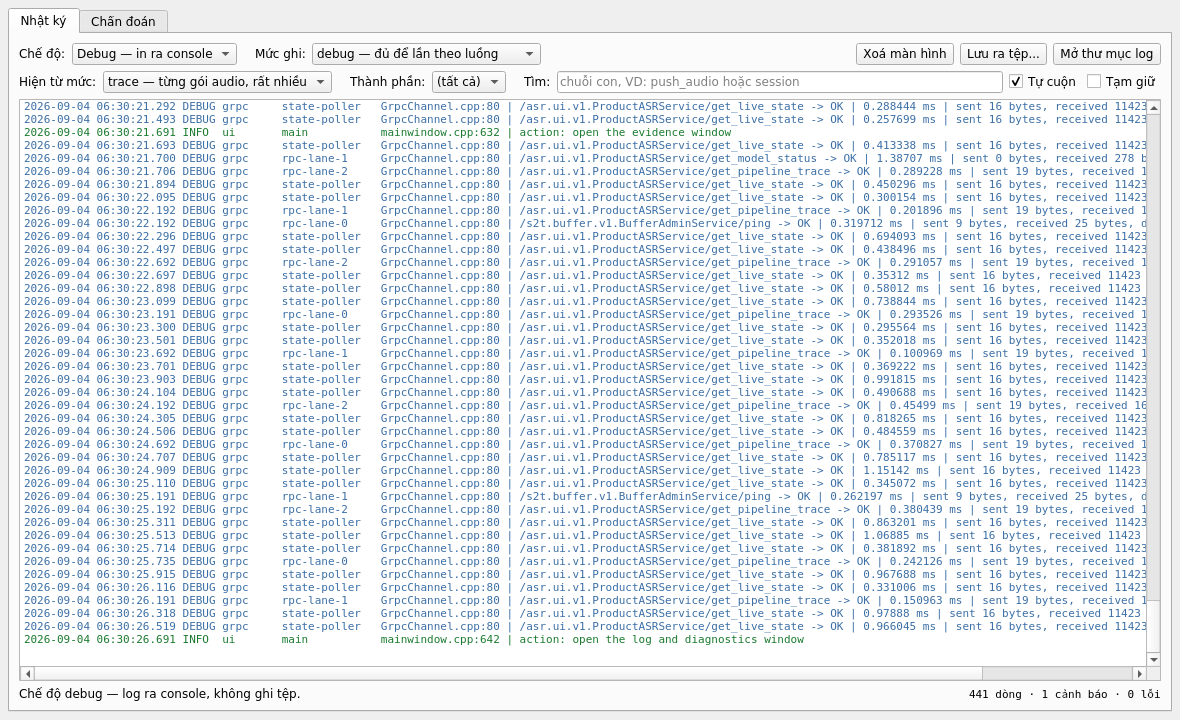
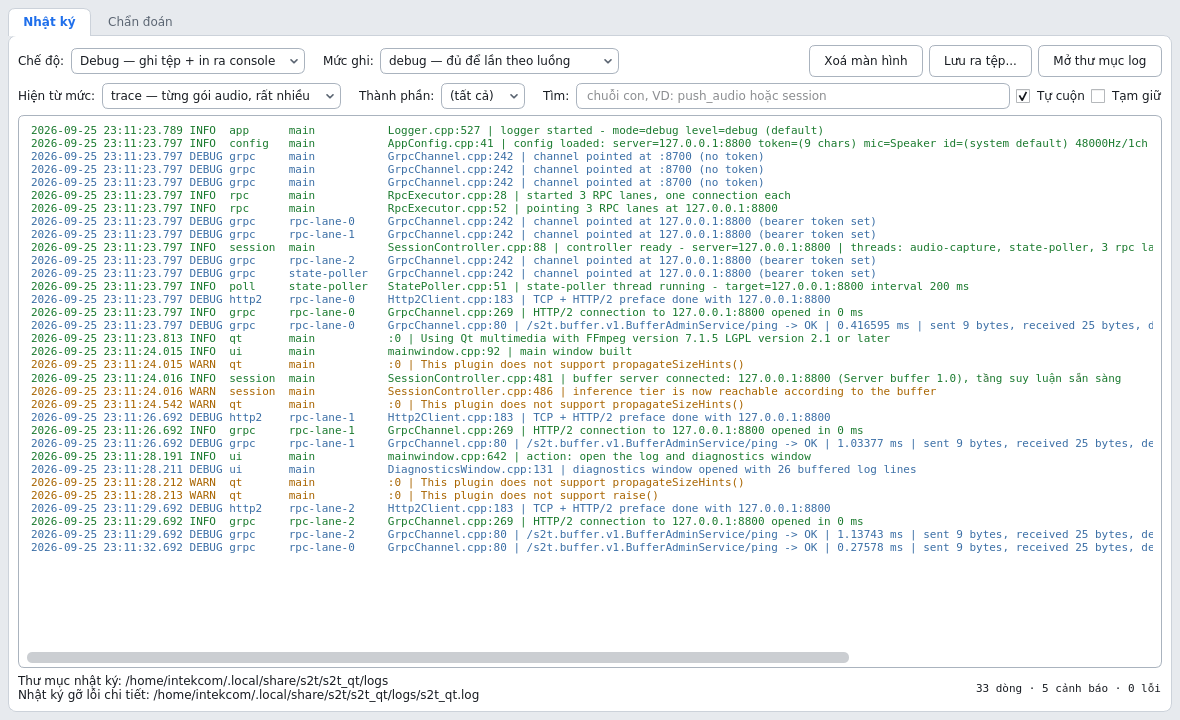
Hướng dẫn sử dụng theo đúng bản đang chạy, và nhãn log thôi nói "Debug = không có tệp"
Rà lại toàn bộ hướng dẫn sử dụng với bản đang chạy trên RHEL thì thấy bảy chỗ
đã sai hoặc thiếu. Chỗ nặng nhất là §6: tài liệu còn dặn "không nên đổi tên
tay để mồi", trong khi từ bản sửa D2 (2026-09-24) bằng chứng giọng CHỈ được
ghim cho giọng mà người soát đã đổi tên, và chỉ ở lúc dừng phiên - đọc code
xác nhận stageEvidence() chỉ được gọi từ đường dừng. Nên đổi tên sau khi đã
dừng thì không đẩy lên DB chung được; tài liệu giờ nói rõ trình tự và nói
câu "chưa có bằng chứng nào được ghim" nghĩa là gì.

Những chỗ khác:
- §0: `./run_s2t.sh` không tham số là `all` - dừng server nền đang chạy và tắt
  luôn server khi đóng giao diện. Việc này xảy ra thật lúc 23:05 hôm nay và
  nhật ký quy trình của server kể lại đúng như vậy. Cách dùng hằng ngày giờ
  là `restart` rồi `client`.
- §5: bản sửa tay được giữ, ghi kho ngay, phiên cũ vẫn sửa được, bắt buộc có
  người thao tác.
- §7 và danh-sach-api.md: trace giữ 2000 sự kiện cho mỗi stage
  (kTraceKeepPerStage), không còn 4000 dùng chung.
- §10: bị tắt từ bên ngoài lúc đang ghi thì không có hộp hỏi lại.
- Phụ lục A: bắt buộc export OUT, build một nửa, giao diện đang mở vẫn là bản
  cũ cho tới khi mở lại.

Chụp lại ba ảnh trên RHEL từ widget thật (offscreen, không bật gì lên màn hình
người dùng, md5 tệp cấu hình trước/sau như nhau): 10-cau-hinh.png với nút Tải
lại và dòng "Sẽ thu bằng", 13-cau-hinh-mic-sai.png là đúng cấu hình đang lưu
trên máy đó (còn "Speaker", báo đỏ), và 06-nhat-ky-chan-doan.png.
[…]

Changed region(s): [[0.0, 0.0, 1.0, 0.9778]]

diff --git a/s2t-qt-client/ui/Dialogs.cpp b/s2t-qt-client/ui/Dialogs.cpp
@@ -782,19 +782,19 @@ void SettingsDialog::updateDeviceHint()
 
 void SettingsDialog::updateLogHint()
 {
+    // The file is written in both modes; only the console copy differs.  The
+    // hint used to tell Debug users to switch to Develop "to get a file",
+    // which stopped being true when the file became always-on.
     const applog::Mode chosen = logcontrols::selectedMode(m_logMode);
-    if (chosen == applog::Mode::Develop) {
-        const QString path = applog::logFilePath();
-        m_logPath->setText(
-            path.isEmpty()
-                ? QStringLiteral("Log sẽ được ghi vào thư mục dữ liệu ứng dụng (tệp "
-                                 "s2t_qt.log, tự xoay vòng khi đầy 8 MB).")
-                : QStringLiteral("Tệp log: %1").arg(path));
-        return;
-    }
-    m_logPath->setText(QStringLiteral(
-        "Log in ra console. Chỉ thấy được nếu mở ứng dụng từ cửa sổ lệnh; "
-        "nếu mở bằng cách nhấp đúp thì hãy chọn chế độ Develop."));
+    const QString path = applog::logFilePath();
+    const QString file =
+        path.isEmpty() ? QStringLiteral("Log luôn được ghi vào thư mục dữ liệu ứng dụng (tệp "
+                                        "s2t_qt.log, tự xoay vòng khi đầy 8 MB).")
+                       : QStringLiteral("Tệp log (luôn được ghi): %1").arg(path);
+    m_logPath->setText(chosen == applog::Mode::Develop
+                           ? file
+                           : file + QStringLiteral("\nKèm một bản in ra console - chỉ thấy "
+                                                   "được khi mở ứng dụng từ cửa sổ lệnh."));
 }
 
 void SettingsDialog::browseTokenFile()

diff --git a/s2t-qt-client/ui/LogControls.cpp b/s2t-qt-client/ui/LogControls.cpp
@@ -7,10 +7,15 @@ namespace {
 
 // Only the two modes need a sentence of their own; the levels read well enough
 // from their name plus a short note.
+//
+// Since the log file became always-on, the mode only decides whether a console
+// copy is made as well.  The old labels ("Debug - in ra console") told the
+// operator that Debug meant "no file", which is exactly the belief that left
+// remote testers with nothing to send.
 QString modeLabel(applog::Mode mode)
 {
-    return mode == applog::Mode::Develop ? QStringLiteral("Develop — ghi ra tệp")
-                                         : QStringLiteral("Debug — in ra console");
+    return mode == applog::Mode::Develop ? QStringLiteral("Develop — chỉ ghi tệp")
+                                         : QStringLiteral("Debug — ghi tệp + in ra console");
 }
 
 QString levelLabel(applog::Level level)

diff --git a/s2t-qt-client/core/AppConfig.h b/s2t-qt-client/core/AppConfig.h
@@ -70,9 +70,10 @@ public:
     // defaults to matching it.
     bool paceFileReplay = true;
 
-    // Where the debug log goes: Debug -> console, Develop -> file.  Persisted
-    // so a deployed workstation keeps writing to its file across restarts
-    // without anyone having to remember a command-line switch.  --log-mode and
+    // Whether the debug log is also copied to the console: the file is always
+    // written, Debug adds a console copy, Develop does not.  Persisted so the
+    // choice survives a restart without anyone having to remember a
+    // command-line switch.  --log-mode and
     // S2T_LOG_MODE still outrank this at startup; see core/Logger.h.
     applog::Mode logMode = applog::Mode::Debug;
     applog::Level logLevel = applog::Level::Debug;

diff --git a/s2t-qt-client/ui/DiagnosticsWindow.cpp b/s2t-qt-client/ui/DiagnosticsWindow.cpp
@@ -190,8 +190,8 @@ QWidget *DiagnosticsWindow::buildLogTab()
     m_mode = new QComboBox(page);
     logcontrols::fillModes(m_mode, applog::mode());
     m_mode->setToolTip(QStringLiteral(
-        "Debug in ra console của cửa sổ lệnh đã mở ứng dụng; mở bằng nhấp đúp thì "
-        "không thấy gì. Develop ghi ra tệp, luôn đọc lại được."));
+        "Tệp log luôn được ghi ở cả hai chế độ. Debug in kèm một bản ra console "
+        "của cửa sổ lệnh đã mở ứng dụng; Develop thì chỉ ghi tệp."));
     sinkRow->addWidget(m_mode);
 
     sinkRow->addSpacing(12);

diff --git a/s2t-qt-server/SessionStore.h b/s2t-qt-server/SessionStore.h
@@ -90,7 +90,7 @@ public:
     //
     // Kept apart from the audit log on purpose: audit is what a person decided
     // and is never trimmed, this is what the tier decided and is trimmed to the
-    // most recent kTraceKeepPerSession events on every write.
+    // most recent kTraceKeepPerStage events of EACH stage on every write.
     void appendTrace(const QString &sessionId, const QList<asr::PipelineTraceEvent> &events);
     // `afterSeq` is a cursor, not a filter: a client polls with the nextSeq it
     // was handed last time.  An empty `stages` means every stage.

diff --git a/docs/huong-dan-su-dung.md b/docs/huong-dan-su-dung.md
@@ -40,7 +40,9 @@ Tài liệu này dành cho người vận hành.
 
 > **Ảnh trong tài liệu này là ảnh chụp máy thật**, lấy trên máy RHEL đang chạy
 > với Server buffer và tầng suy luận thật, ngày 2026-09-04 — không phải bản vẽ
-> mô phỏng. Chụp lại cả bộ bằng một lệnh: xem `tools/doc_shots.cpp`.
+> mô phỏng. Ba ảnh Cấu hình và Nhật ký (`06`, `10`, `13`) chụp lại ngày
+> 2026-09-25 theo giao diện mới. Chụp lại cả bộ bằng một lệnh: xem
+> `tools/doc_shots.cpp`.
 
 ---
 
@@ -51,18 +53,27 @@ sổ dòng lệnh và:
 
 ```bash
 cd ~/s2t-qt
-./run_s2t.sh            # Server buffer chạy nền + giao diện.
-                        # Đóng giao diện là dừng cả hai.
+./run_s2t.sh restart    # 1. Server buffer chạy nền, lâu dài (không mở giao diện)
+./run_s2t.sh client     # 2. Mở giao diện. Đóng giao diện KHÔNG dừng server.
 ```
 
-Các cách gọi khác, khi cần:
+Đây là cách nên dùng hằng ngày: server chạy một lần và nằm đó, giao diện mở
+và đóng bao nhiêu lần cũng được.
 
 | Lệnh | Làm gì |
 |---|---|
-| `./run_s2t.sh client` | Chỉ mở giao diện, khi Server buffer đã chạy sẵn |
-| `./run_s2t.sh restart` | Dừng server cũ, chạy server nền mới, **không** mở giao diện |
+| `./run_s2t.sh restart` | Dừng server cũ (nếu có), chạy server nền mới, **không** mở giao diện. Server chạy tiếp sau khi cửa sổ lệnh đóng. |
+| `./run_s2t.sh client` | Chỉ mở giao diện, dùng server đang chạy sẵn |
+| `./run_s2t.sh` (không tham số) = `./run_s2t.sh all` | Chạy **một cặp tạm**: server + giao diện. **Đóng giao diện là dừng luôn server.** |
 | `./run_s2t.sh stop` | Dừng server đang giữ cổng 8800 |
 | `./run_s2t.sh config` | Ghi lại cấu hình client cho khớp server ở máy này (có sao lưu) |
+
+> **Cẩn thận với `./run_s2t.sh` không tham số khi server đã chạy nền.** Nó
+> dừng server nền đó, chạy server của riêng nó, rồi **tắt server khi bạn đóng
+> giao diện** — sau đó cổng 8800 không còn ai nghe và mọi máy khác đang nối vào
+> đều mất kết nối. Chuyện này đã xảy ra thật ngày 2026-09-25: nhật ký quy trình
+> của server ghi `server.signal` đúng 12 giây sau `server.ready`, cùng giây với
+> lúc giao diện được đóng. Muốn mở giao diện thì dùng `./run_s2t.sh client`.
 
 Script lo hết phần môi trường: `PATH`, `LD_LIBRARY_PATH`, `QT_PLUGIN_PATH`
 trỏ vào `~/Qt`, ép mã hoá UTF-8, và mặc định `DISPLAY=:1`.
@@ -89,7 +100,7 @@ chạy — giao diện sẽ báo đèn đỏ và không mở được phiên nà
 Không có gì tự chạy. Làm đúng hai bước:
 
 ```bash
-cd ~/s2t-qt && ./run_s2t.sh
+cd ~/s2t-qt && ./run_s2t.sh restart && ./run_s2t.sh client
 ```
 
 rồi kiểm tra đèn kết nối trong giao diện ([mục 1.4](#14-kiểm-tra-kết-nối)).
@@ -103,6 +114,10 @@ rồi kiểm tra đèn kết nối trong giao diện ([mục 1.4](#14-kiểm-tra
 Mở **Công cụ → Cấu hình** (`Ctrl+,`) và điền:
 
 ![Hộp thoại Cấu hình](images/10-cau-hinh.png)
+
+*Đã chọn mic ở ô **Micro**: ô tên tự điền theo, và dòng xám bên dưới nói trước
+bấm Ghi âm sẽ thu bằng thiết bị nào. Dòng dưới cùng là đường dẫn tệp log — tệp
+luôn được ghi, dù chọn chế độ nào.*
 
 | Mục | Ý nghĩa |
 |---|---|
@@ -135,6 +150,11 @@ Cấu hình được lưu lại và tự nạp ở lần mở sau.
 > ```
 > Không tìm thấy microphone có tên chứa "Speaker".
 > ```
+>
+> Từ 2026-09-25 hộp thoại Cấu hình báo điều này **ngay khi mở**, bằng dòng chữ
+> đỏ dưới ô tên — không phải đợi tới lúc bấm ghi âm:
+>
+> ![Cấu hình còn giữ "Speaker": dòng báo đỏ](images/13-cau-hinh-mic-sai.png)
 >
 > Cách xử lý, theo thứ tự:
 >
@@ -414,6 +434,15 @@ bạn tải về, chỉnh sửa sẽ bị từ chối và bảng tự tải lạ
 Nếu nhận được *"chưa chốt tới đoạn này, thử lại sau vài giây"*: đoạn đó vẫn còn
 là kết quả tạm, chưa chốt. Đợi vài giây rồi sửa lại.
 
+- **Bản sửa lúc đang họp được giữ.** Một từ đã sửa tay thì lượt hiệu chỉnh tự
+  động đến sau không ghi đè lên nó nữa (trước 2026-09-24 thì có).
+- **Bản sửa được ghi xuống kho ngay**, nên nó còn nguyên sau khi server khởi
+  động lại hay sau khi phiên rời bộ nhớ.
+- **Phiên cũ đã đóng từ lâu vẫn sửa và đổi tên được.** Sau khi họp xong, sửa
+  được toàn bộ bản chép, không còn giới hạn mốc chốt.
+- Mọi lần sửa và đổi tên đều **bắt buộc có tên người thao tác**; thiếu thì
+  server từ chối.
+
 Menu **Công cụ → Lịch sử hiệu chỉnh** (`F7`) xem toàn bộ nhật ký kiểm toán của phiên: ai sửa gì, lúc nào.
 
 ![Lịch sử hiệu chỉnh](images/09-lich-su-hieu-chinh.png)
@@ -515,12 +544,34 @@ không kéo theo các cái còn lại.
 > luận chỉ xuất kết quả phân cụm giọng ở đúng nhịp cuối cùng. Một cuộc họp còn
 > đang ghi thì phần này trống, và đó không phải lỗi.
 >
-> Bằng chứng được chọn tự động: các đoạn dài nhất mà **chỉ một mình** người đó
-> nói, cộng lại tối đa 45 giây, bỏ qua những tiếng đế dưới một giây. Không cần
-> và không nên đổi tên tay trước để "mồi" cho nó.
+> **Bằng chứng chỉ được ghim cho giọng mà người soát đã đổi tên.** Muốn đẩy một
+> giọng lên DB chung thì trình tự là:
 >
-> Trước 2026-09-21 thao tác publish luôn báo *"giọng này chưa có bằng chứng nào
-> được ghim"* dù làm đúng; nếu còn gặp câu đó thì máy chủ chưa được cập nhật.
+> 1. **Trong lúc họp, trước khi bấm Dừng phiên**, đổi tên người nói đó ở bảng
+>    Soát & sửa (`F9`) — bấm đúp ô người nói, gõ tên thật.
+> 2. **Dừng phiên.** Đúng lúc này, và chỉ lúc này, hệ thống chọn các đoạn dài
+>    nhất mà **chỉ một mình** người đó nói, cộng lại tối đa 45 giây, bỏ qua
+>    tiếng đế dưới một giây.
+> 3. Mở `F5` → *Người nói trong phiên*, chọn đẩy lên DB chung, **Lưu lựa chọn**.
+>
+> Giọng mà **không ai đổi tên** — kể cả khi mô hình đã tự gán một cái tên cho
+> nó — thì không có bằng chứng nào và không đẩy lên được. Đây là cố ý (sửa
+> ngày 2026-09-24): trước đó hệ thống tự ghim cho tên do mô hình gán, không ai
+> duyệt, và có lúc lấy nhầm giọng của người A làm mẫu cho người B. Một mẫu
+> sai trong DB chung là một cái tên sai ở mọi cuộc họp sau.
+>
+> **Đổi tên sau khi đã dừng phiên thì chỉ đổi chữ hiển thị**, không ghim được
+> bằng chứng: hệ thống chỉ biết đoạn nào thuộc cụm giọng nào ở đúng nhịp cuối
+> của phiên. Quên đổi tên trước khi dừng thì giọng đó không đẩy lên DB chung từ
+> phiên này được — dùng **Đăng ký giọng mới** ở trên (thu trực tiếp hoặc nạp
+> từ tệp) thay thế.
+>
+> Vì vậy gặp câu *"giọng này chưa có bằng chứng nào được ghim - hãy dùng
+> rename_speaker…"* thì nghĩa đúng như chữ: **chưa ai đổi tên giọng đó trước
+> khi dừng phiên**. Không phải lỗi máy chủ.
+>
+> Nếu publish báo lỗi vì tên đó **đã từng bị xoá** khỏi DB chung: dịch vụ đăng
+> ký không nhận lại tên đã xoá. Dùng một tên khác, hoặc nhờ quản trị khôi phục.
 
 ---
 
@@ -550,7 +601,10 @@ thô của từng sự kiện và ghép nhiều span để nghe liền.
 > quanh thời điểm đó** thì bên pipeline lần ra được ngay cửa sổ nào đã quyết
 > định sai. Không có nó thì chỉ còn cách dựng lại cả phiên bằng tay.
 >
-> Mỗi phiên giữ 4000 sự kiện gần nhất; một cuộc họp dài sẽ rụng dần phần đầu.
+> Mỗi phiên giữ **2000 sự kiện gần nhất cho mỗi loại thẻ**, tính riêng từng
+> loại — nên `streaming_window` (ra nhiều nhất) không còn đẩy mất các thẻ
+> `correction_asr`/`itn` của một cuộc họp dài như trước 2026-09-24. Cuộc họp
+> rất dài vẫn rụng dần phần đầu của từng loại.
 
 **Nghiệm thu pipeline** (`F10`) — bằng chứng để nghiệm thu hệ thống:
 
@@ -642,9 +696,11 @@ Xem trực tiếp mọi việc ứng dụng đang làm.
 dòng, số cảnh báo và số lỗi đang có trong bộ đệm.*
 
 - **Chế độ** — quyết định có in kèm ra console hay không. **Tệp thì luôn được
-  ghi ở cả hai chế độ**: `Debug` in ra console (chỉ thấy nếu mở ứng dụng từ cửa
-  sổ lệnh) *và* ghi tệp; `Develop` chỉ ghi tệp. Trước 2026-09-25, `Debug`
-  không ghi tệp nào cả — nghĩa là mặc định không có gì để gửi về khi có sự cố.
+  ghi ở cả hai chế độ**: *Debug — ghi tệp + in ra console* (bản console chỉ
+  thấy nếu mở ứng dụng từ cửa sổ lệnh); *Develop — chỉ ghi tệp*. Trước
+  2026-09-25, `Debug` không ghi tệp nào cả — nghĩa là mặc định không có gì để
+  gửi về khi có sự cố — và nhãn cũ *"Debug — in ra console"* vẫn còn nói như
+  vậy cho tới bản 2026-09-25 tối.
 - **Mức ghi** — quyết định dòng nào được ghi:
 
   | Mức | Dùng khi |
@@ -892,7 +948,10 @@ console/VNC của máy, hoặc dùng các chế độ dòng lệnh ở mục 8.3
 - **Phiên không tự kết thúc khi mất mạng hay mất mic.** Chỉ có nút **Dừng phiên**, lỗi
   không khắc phục được, hoặc đóng ứng dụng mới kết thúc phiên.
 - **Đóng ứng dụng khi đang ghi sẽ cắt phiên** mà không flush correction. Ứng
-  dụng có hỏi lại trước khi làm.
+  dụng có hỏi lại trước khi làm — **trừ khi** nó bị tắt từ bên ngoài (đăng
+  xuất, tắt máy, `kill`, `run_s2t.sh stop`): khi đó không có ai để hỏi, nên nó
+  thoát ngay, nhật ký quy trình ghi *"bị tắt bằng tín hiệu SIGTERM"*. **Bấm Dừng
+  phiên trước khi đăng xuất hay tắt máy.**
 - **Tên người thao tác không được nhớ giữa các lần chạy** — xem mục 1.3.
 - **Mức bảo mật chỉ là nhãn**, không thay cho phân quyền phía server.
 - **Ứng dụng này không phải là server.** Nó không mở cổng nào và không có API
@@ -992,8 +1051,9 @@ rồi trên máy RHEL:
 
 ```bash
 export QMAKE6=$HOME/Qt/6.11.2/gcc_64/bin/qmake
-export OUT=$HOME/s2t-qt/build-rhel
+export OUT=$HOME/s2t-qt/build-rhel           # BẮT BUỘC - xem ghi chú dưới
 cd ~/s2t-qt && tools/build_rhel9.sh          # build cả hai nửa
+# hoặc chỉ một nửa:  tools/build_rhel9.sh client   /   tools/build_rhel9.sh server
 
 export LD_LIBRARY_PATH=$HOME/Qt/6.11.2/gcc_64/lib
 build-rhel/s2t-qt-server/s2t-qt-server --selftest       # phải: 6/6 bộ OK
@@ -1002,6 +1062,16 @@ QT_QPA_PLATFORM=offscreen \
 
 ./run_s2t.sh restart                          # chạy lại server bằng bản mới
 ```
+
+> **Luôn `export OUT` như trên.** Không đặt thì script build vào
+> `~/build-rhel` (cạnh `~/s2t-qt`, không phải bên trong), và `run_s2t.sh` vẫn
+> chạy bản cũ ở `~/s2t-qt/build-rhel` — build xong, test xong, mà thứ đang chạy
+> là bản trước. Build một nửa (`client`/`server`) đặt kết quả vào
+> `$OUT/s2t-qt-client` / `$OUT/s2t-qt-server`, đúng chỗ bản build đầy đủ đặt
+> nó; trước 2026-09-25 lệnh đó ghi đè Makefile tổng và không link được.
+>
+> Sau khi build lại, **giao diện đang mở vẫn là bản cũ** cho tới khi đóng và
+> mở lại (`./run_s2t.sh client`); server thì `restart` như trên.
 
 Kiểm tra bản vừa chạy đúng là bản mong muốn: mở
 `~/.local/share/s2t/s2t-qt-server/logs/quy-trinh-*.log` mới nhất, phần

diff --git a/docs/luong-hoat-dong.md b/docs/luong-hoat-dong.md
@@ -1083,13 +1083,13 @@ LOG_INFO(applog::cat::Worker) << "start_session OK - session_id=" << id;
         ▼
 applog::Record  (dựng trên stack, phát ra ở destructor)
         │
-        ├──► sink: console (Debug) hoặc tệp xoay vòng (Develop)
+        ├──► sink: tệp xoay vòng (LUÔN) + bản console (chỉ Debug)
         ├──► vòng đệm ~4000 dòng gần nhất
         └──► applog::Bus ──queued signal──► DiagnosticsWindow (luồng GUI)
 ```
 
-- **Cờ chế độ** quyết định *đi đâu*; **mức** quyết định *bao nhiêu*. Hai thứ
-  độc lập.
+- **Cờ chế độ** quyết định *có in kèm ra console không* — tệp thì luôn được
+  ghi, từ 2026-09-25; **mức** quyết định *bao nhiêu*. Hai thứ độc lập.
 - Thứ tự quyết định chế độ: `--log-mode` → `S2T_LOG_MODE` → cấu hình đã lưu →
   mặc định lúc build (`qmake CONFIG+=develop`). Một lần `setMode()` sau đó — tức
   người dùng đổi trong ứng dụng — luôn thắng.
@@ -1267,16 +1267,23 @@ set PATH=C:\Qt\6.11.2\mingw_64\bin;C:\Qt\Tools\mingw1310_64\bin;%PATH%
 qmake s2t_qt.pro && mingw32-make -j8          # cả hai (TEMPLATE = subdirs)
 
 # RHEL 9 — dùng qmake6, không phải qmake (qmake ở đó là của Qt 5)
+export QMAKE6=$HOME/Qt/6.11.2/gcc_64/bin/qmake
+export OUT=$HOME/s2t-qt/build-rhel   # mặc định là ../build-rhel = ~/build-rhel
 tools/build_rhel9.sh            # cả hai
 tools/build_rhel9.sh server     # chỉ server: không cần Qt Multimedia/Widgets
 tools/build_rhel9.sh client
 ```
 
+Build một nửa đặt kết quả vào `$OUT/<nửa đó>` — đúng chỗ bản subdirs đặt nó,
+nên hai kiểu build dùng chung object. Trước 2026-09-25 nó chạy qmake ngay trong
+`$OUT`: ghi đè Makefile tổng, rải `.o` ra gốc, và không link được vì
+`$OUT/s2t-qt-client` đã là một thư mục.
+
 Cờ build:
 
 | Cờ | Tác dụng |
 |---|---|
-| `CONFIG+=develop` | Mặc định log ra tệp thay vì console |
+| `CONFIG+=develop` | Mặc định chế độ Develop: chỉ ghi tệp, không in kèm console (tệp thì luôn được ghi) |
 | `CONFIG+=memcheck` | `-O1 -g3 -fno-omit-frame-pointer -rdynamic`, cho gdb/valgrind |
 
 Cả hai dự án build sạch với `-Wall -Wextra` và điều đó được đặt ngay trong

diff --git a/docs/danh-sach-api.md b/docs/danh-sach-api.md
@@ -732,8 +732,10 @@ Ba `stage` được sinh ra, đặt tên đúng như bên pipeline vẫn đọc 
 `payload_json` là nguyên văn object JSON tầng suy luận gửi lên, không cắt
 xén — đó mới là thứ đọc được khi truy một dấu câu sai.
 
-**Trace bị cắt bớt.** Mỗi phiên giữ 4000 sự kiện gần nhất; cũ hơn thì bị xoá
-khi có lượt ghi mới. Một cuộc họp ba giờ sinh ra hàng chục nghìn sự kiện và
+**Trace bị cắt bớt.** Mỗi phiên giữ 2000 sự kiện gần nhất **cho mỗi `stage`**,
+tính riêng từng stage; cũ hơn thì bị xoá khi có lượt ghi mới. (Trước
+2026-09-24 là 4000 dùng chung, và `streaming_window` đẩy hết `correction_asr` /
+`itn` của một cuộc họp dài ra ngoài.) Một cuộc họp ba giờ sinh ra hàng chục nghìn sự kiện và
 câu hỏi về trace luôn là về thứ vừa xảy ra. `after_seq` là **con trỏ**, không
 phải bộ lọc: truyền lại `next_seq` của lần trước để chỉ lấy phần mới.
 
